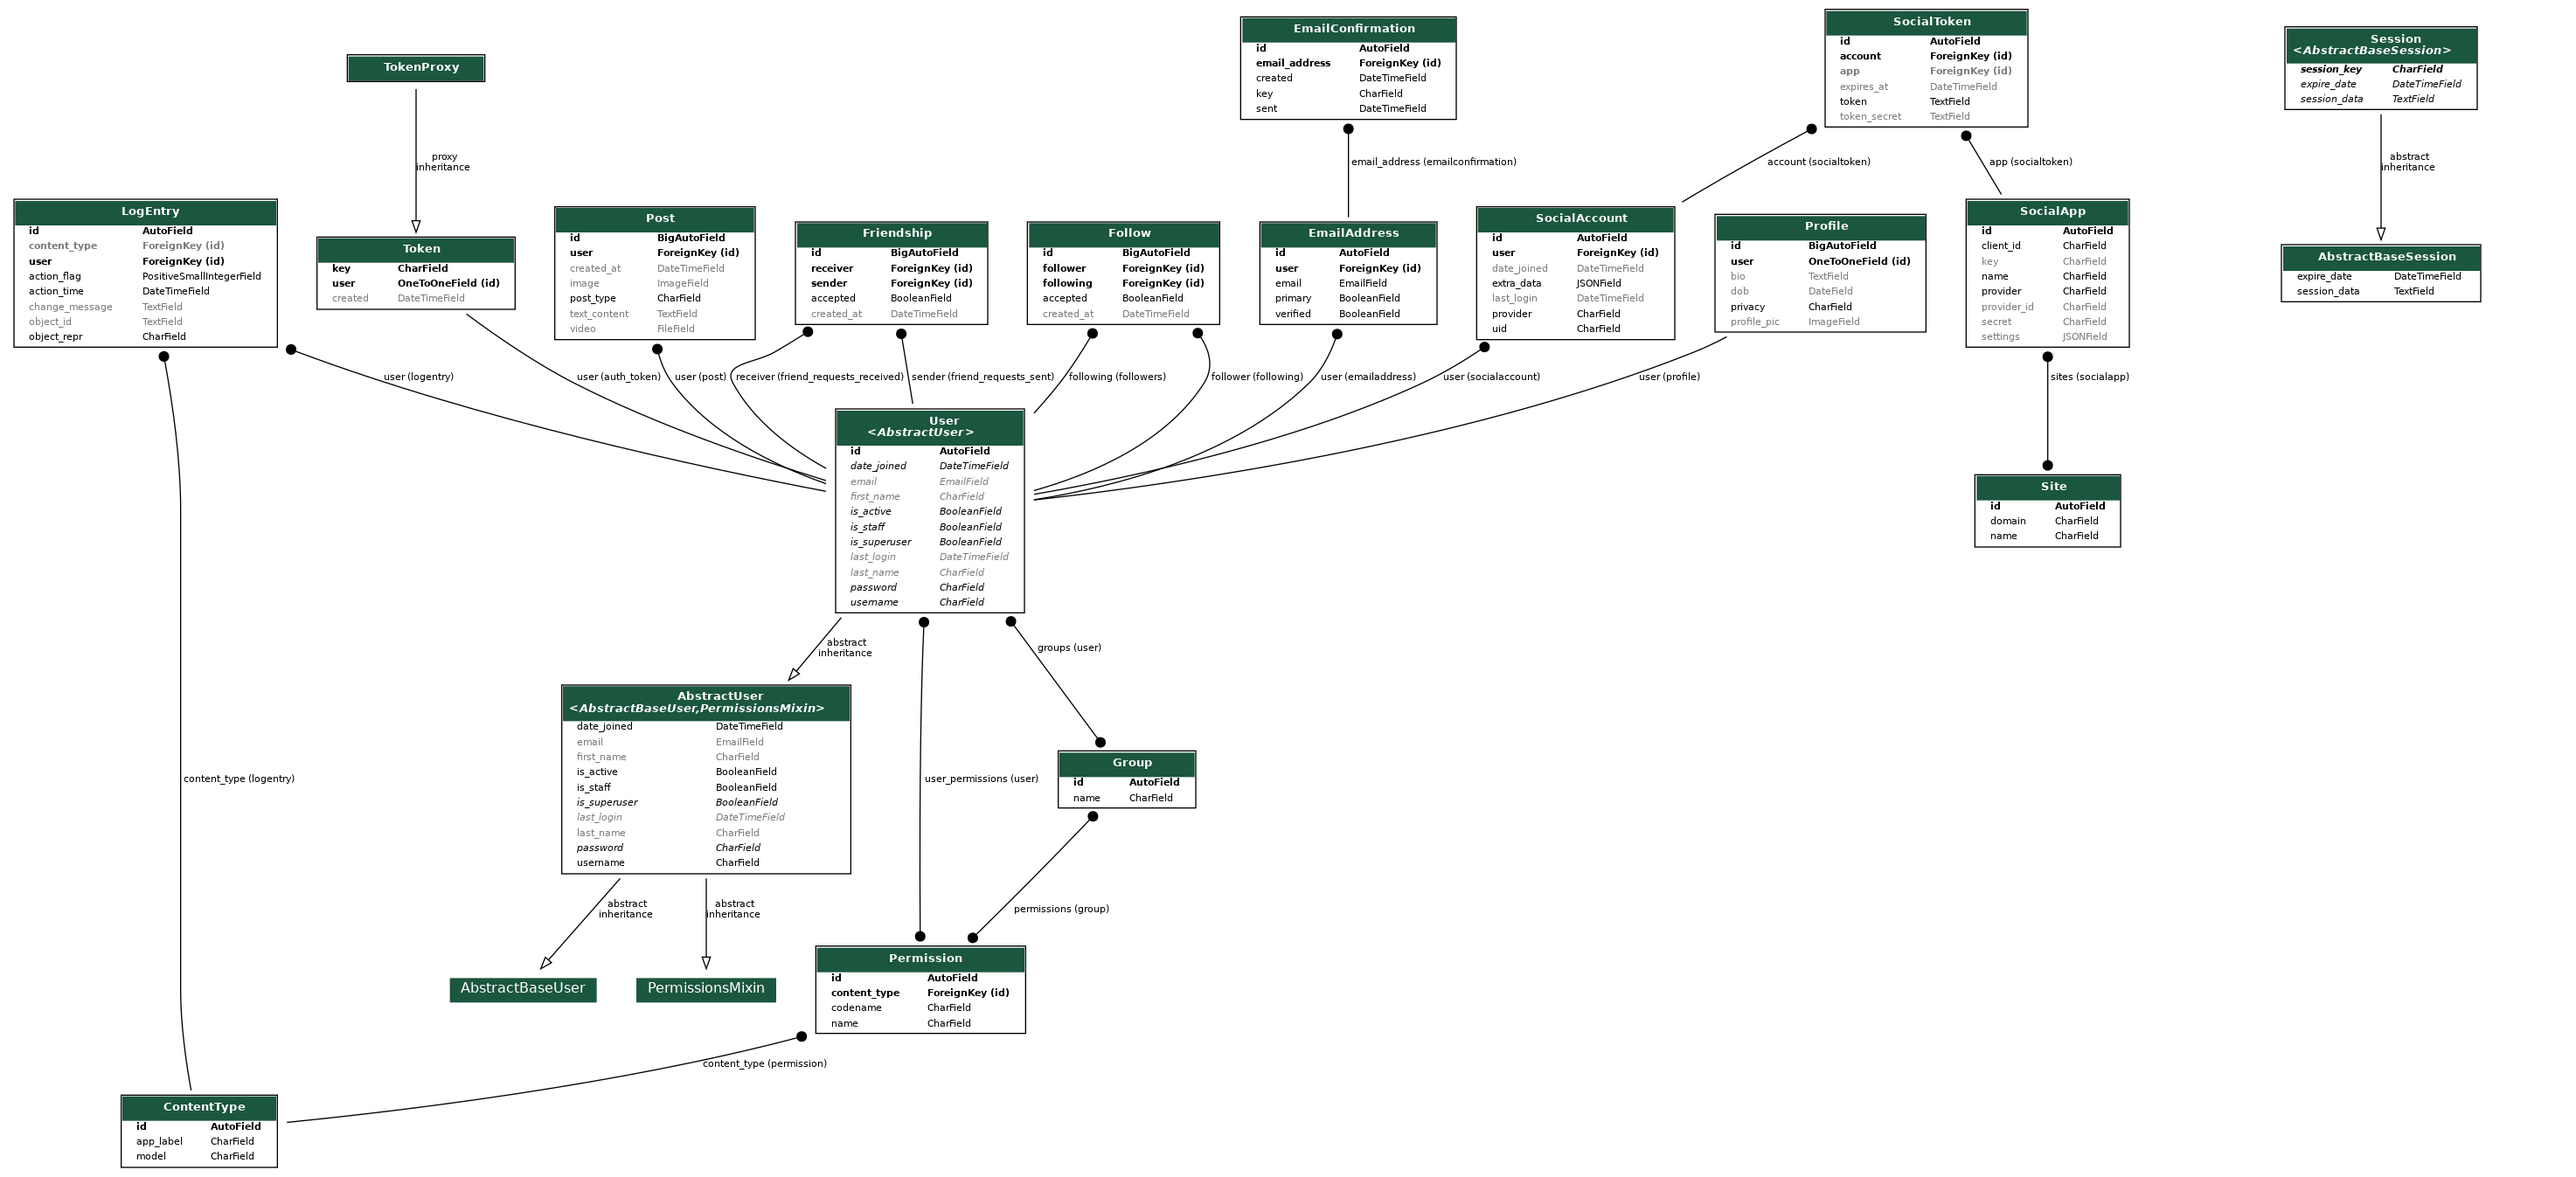
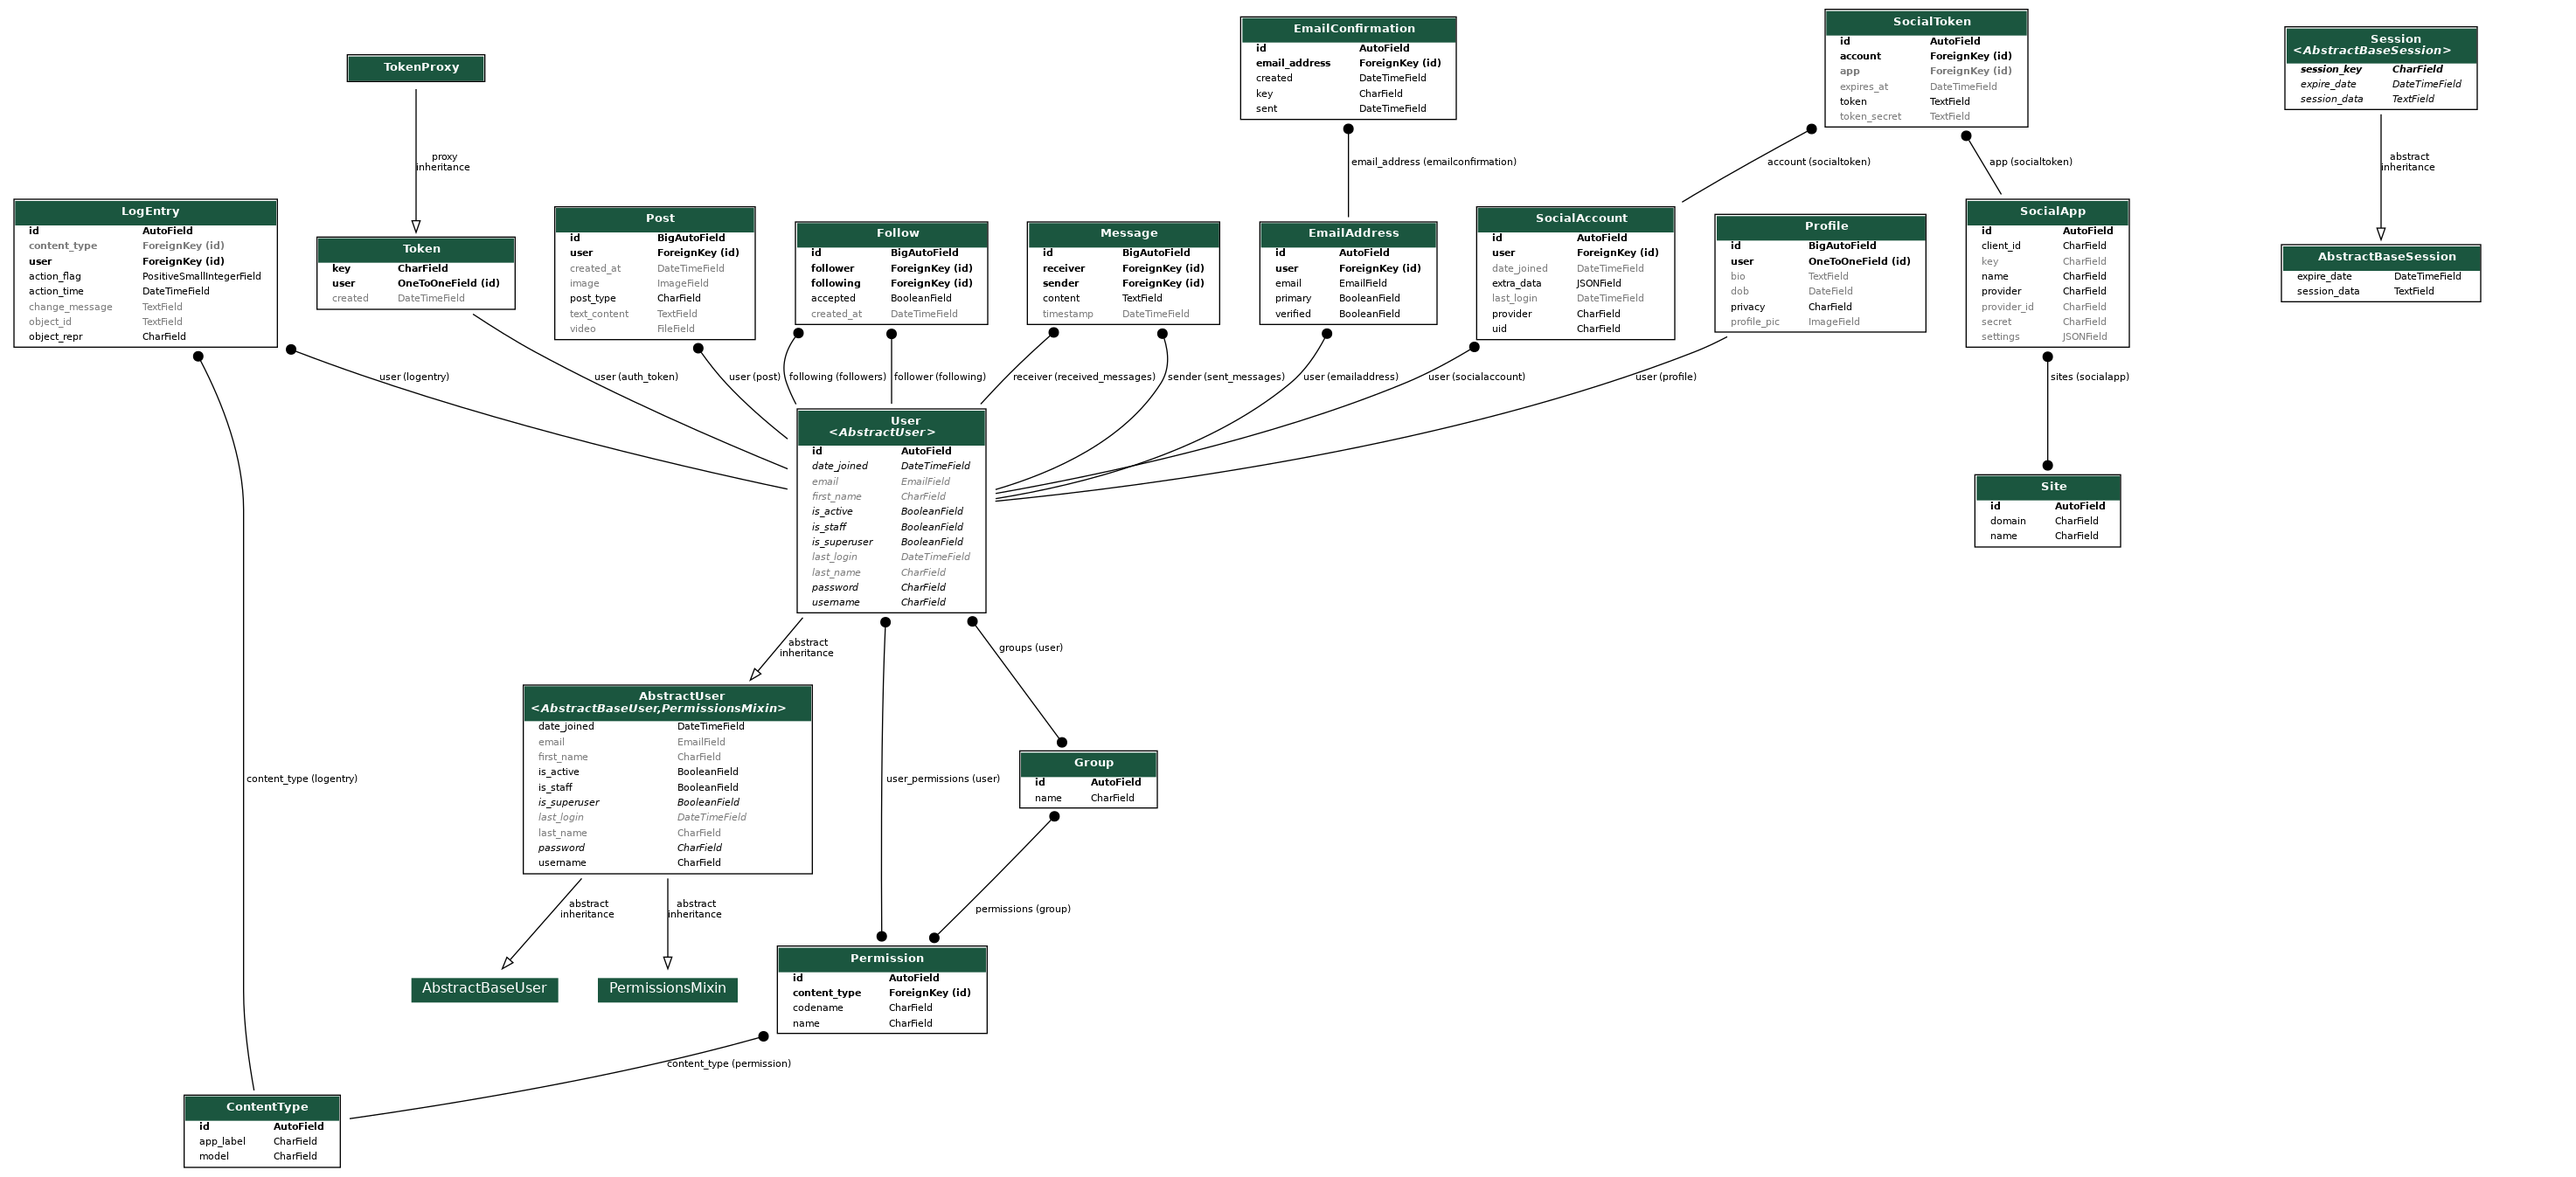
removed friends functionality compleetly from the backend

diff --git a/py_ShowMe/ShowMe/urls.py b/py_ShowMe/ShowMe/urls.py
@@ -8,7 +8,6 @@ urlpatterns = [
     path('admin/', admin.site.urls),
     path('', include('userProfile.urls')),
     path('posts/', include('posts.urls', namespace='posts')),
-    path('friends/', include('friends.urls', namespace='friends')),
     path('auth/', include('allauth.socialaccount.urls')),  # social login
     path('search/', include('search.urls')),
     path('profileview/', include('profileview.urls')),

diff --git a/py_ShowMe/ShowMe/settings/production.py b/py_ShowMe/ShowMe/settings/production.py
@@ -21,7 +21,6 @@ INSTALLED_APPS = [
     'rest_framework',
     'rest_framework.authtoken',
     'rest_framework_simplejwt',
-    'friends',
     'django_extensions',
 ]
 

diff --git a/py_ShowMe/ShowMe/settings/development.py b/py_ShowMe/ShowMe/settings/development.py
@@ -38,7 +38,6 @@ INSTALLED_APPS = [
     # Your apps
     'userProfile',
     'posts',
-    'friends',
     'profileview',
     'search',
     'follows',
